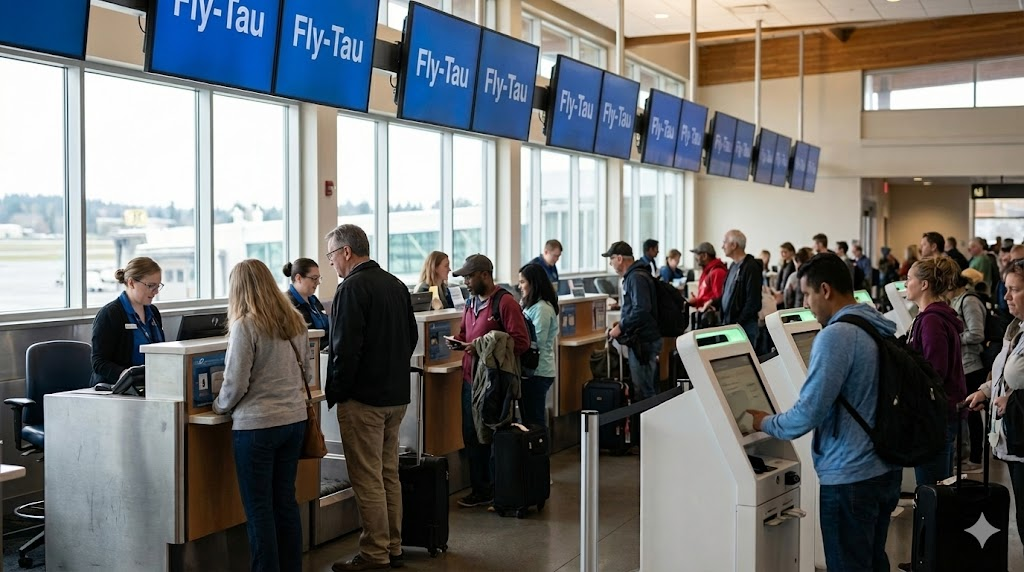
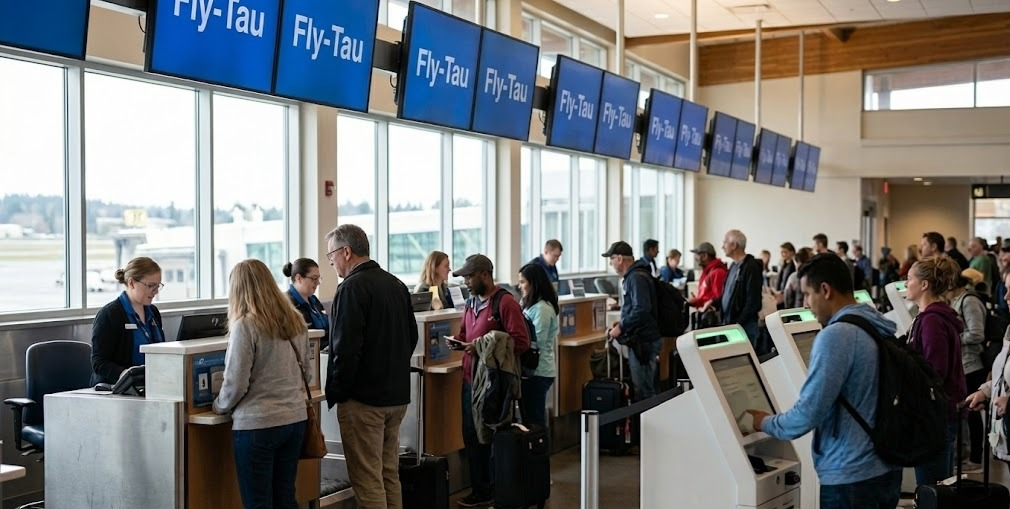
commit message

diff --git a/templates/home_page.html b/templates/home_page.html
@@ -18,9 +18,11 @@
                     <span style="color: #00a8e8; margin-left: 20px; font-weight: bold;">
                         Hello, {{ session['user_name'] }}
                     </span>
+                    <a href="#">My Bookings History</a>
                     <a href="{{ url_for('logout') }}" style="color: #ff4d4d;">Logout</a>
                 {% else %}
                     <a href="{{ url_for('signup') }}">Sign up</a>
+                    <a href="#">Find My booking</a>
                     <a href="{{ url_for('login') }}">Login</a>
                     <a href="{{ url_for('manager_login') }}">Manager Login</a>
                 {% endif %}

diff --git a/static/style.css b/static/style.css
@@ -52,14 +52,14 @@ body {
    ========================================= */
 .hero-section {
     position: relative;
-    background-image: linear-gradient(rgba(0,0,0,0.3), rgba(0,0,0,0.3)),
-                      url('https://images.unsplash.com/photo-1436491865332-7a61a109cc05?q=80&w=2074&auto=format&fit=crop');
+    background-image: linear-gradient(rgba(80, 80, 80, 0.5), rgba(80, 80, 80, 0.5)),
+                      url('home-page background.png');
     background-size: cover;
     background-position: center;
     height: 100vh;
     display: flex;
     justify-content: center;
-    padding-top: 140px;
+    padding-top: 130px;
 }
 
 .hero-content {

diff --git a/main.py b/main.py
@@ -135,14 +135,20 @@ def manager_login():
             flash("Invalid Manager ID or Password")
             return redirect(url_for('manager_login'))
 
+#@app.route('/manager-dashboard', methods = ['GET', 'POST'])
+#def dashboard():
+ #   if request.method == 'GET':
+#      return render_template('manager_dashboard.html')
+
+
+
 
 
 
 # --- LOGOUT ROUTE (Crucial!) ---
 @app.route('/logout')
 def logout():
-    session.pop('user_email', None)
-    session.pop('user_name', None)
+    session.clear()
     return redirect(url_for('home'))
 
 
